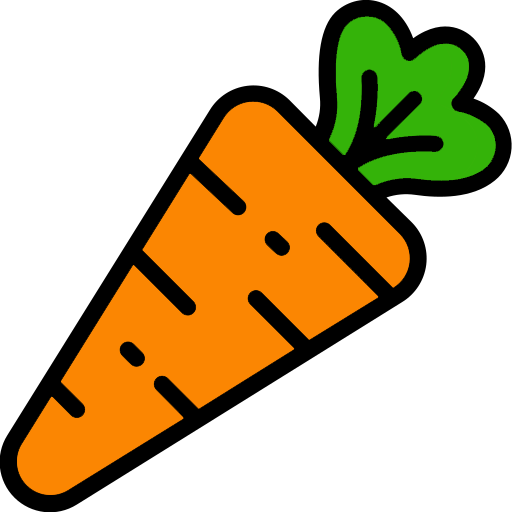
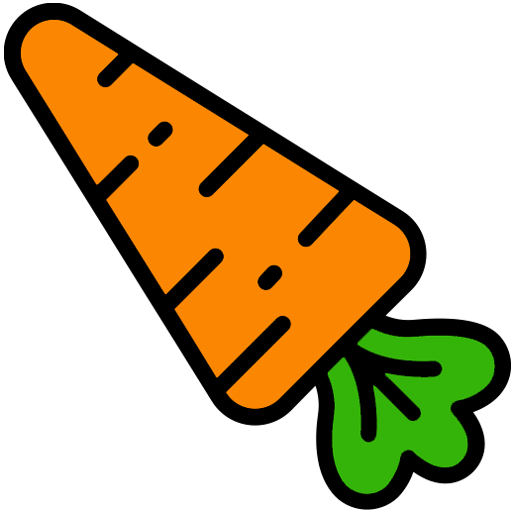
custom cursor

diff --git a/Carrot Appointment/style.css b/Carrot Appointment/style.css
@@ -8,6 +8,8 @@ body, html {
     font-family: sans-serif;
     scroll-behavior: smooth;
     background: linear-gradient(to right, #fff, #f6f6f6);
+    cursor: none;
+    cursor: url('vectors/old_carrot_cursor.png'), auto;
 }
 
 a {
